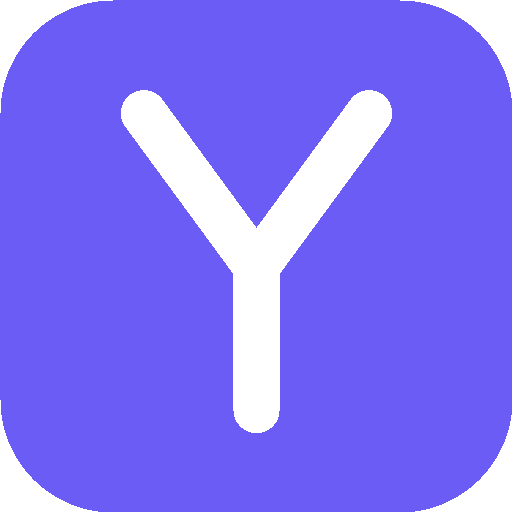
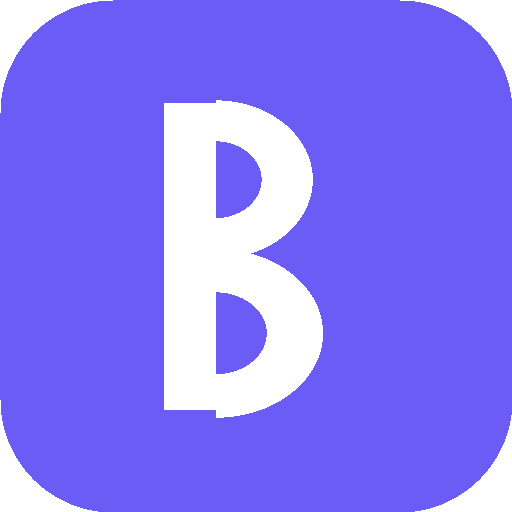
Rename app from mybestself to Bikko
Updates every user-facing and config reference: page title, manifest,
sign-in/header branding, footer, export filename, service worker cache
name, and the logo mark letter (Y -> B) including the PWA app icons.

Changed region(s): [[0.2188, 0.1562, 0.7812, 0.8438]]

diff --git a/src/App.tsx b/src/App.tsx
@@ -68,9 +68,9 @@ export default function App() {
           {/* Logo */}
           <div className="flex items-center gap-2 flex-shrink-0">
             <div className="w-9 h-9 rounded-xl flex items-center justify-center text-lg font-bold text-primary-foreground bg-primary flex-shrink-0">
-              Y
+              B
             </div>
-            <span className="hidden sm:inline text-xl font-extrabold text-foreground">mybestself</span>
+            <span className="hidden sm:inline text-xl font-extrabold text-foreground">Bikko</span>
           </div>
 
           {/* Progress pill */}
@@ -147,7 +147,7 @@ export default function App() {
       </main>
 
       <footer className="border-t border-border text-center py-6 text-xs text-muted-foreground px-4 sm:px-6">
-        mybestself · {new Date().getFullYear()} · Stay consistent, stay you.
+        Bikko · {new Date().getFullYear()} · Stay consistent, stay you.
       </footer>
     </div>
   );

diff --git a/index.html b/index.html
@@ -3,7 +3,7 @@
   <head>
     <meta charset="UTF-8" />
     <meta name="viewport" content="width=device-width, initial-scale=1.0, viewport-fit=cover" />
-    <title>mybestself</title>
+    <title>Bikko</title>
     <meta name="description" content="Track your daily habits including water intake, medication, food, exercise, sleep, and mood while gaining insights through colorful dashboards and charts." />
 
     <link rel="manifest" href="/manifest.json" />
@@ -13,7 +13,7 @@
     <meta name="mobile-web-app-capable" content="yes" />
     <meta name="apple-mobile-web-app-capable" content="yes" />
     <meta name="apple-mobile-web-app-status-bar-style" content="default" />
-    <meta name="apple-mobile-web-app-title" content="mybestself" />
+    <meta name="apple-mobile-web-app-title" content="Bikko" />
   </head>
   <body>
     <div id="root"></div>

diff --git a/src/auth/SignInScreen.tsx b/src/auth/SignInScreen.tsx
@@ -35,9 +35,9 @@ export default function SignInScreen() {
       <div className="w-full max-w-sm bg-card border border-border rounded-2xl p-8 shadow-sm">
         <div className="flex items-center gap-2 justify-center mb-6">
           <div className="w-9 h-9 rounded-xl flex items-center justify-center text-lg font-bold text-primary-foreground bg-primary">
-            Y
+            B
           </div>
-          <span className="text-xl font-extrabold text-foreground">mybestself</span>
+          <span className="text-xl font-extrabold text-foreground">Bikko</span>
         </div>
 
         {checkEmail ? (

diff --git a/src/components/ProfileView.tsx b/src/components/ProfileView.tsx
@@ -126,7 +126,7 @@ export default function ProfileView({ email, profile, onUpdateProfile, habitData
     const url = URL.createObjectURL(blob);
     const a = document.createElement("a");
     a.href = url;
-    a.download = "mybestself-export.json";
+    a.download = "bikko-export.json";
     a.click();
     URL.revokeObjectURL(url);
   };

diff --git a/public/sw.js b/public/sw.js
@@ -1,4 +1,4 @@
-const CACHE_NAME = "mybestself-shell-v1";
+const CACHE_NAME = "bikko-shell-v1";
 const SHELL_URLS = ["/", "/manifest.json", "/icon-192.png", "/icon-512.png"];
 
 self.addEventListener("install", (event) => {

diff --git a/AGENTS.md b/AGENTS.md
@@ -1,4 +1,4 @@
-# mybestself
+# Bikko
 
 React + Vite + Tailwind CSS app (originally exported from Figma Make, now a standalone project backed by Supabase).
 
